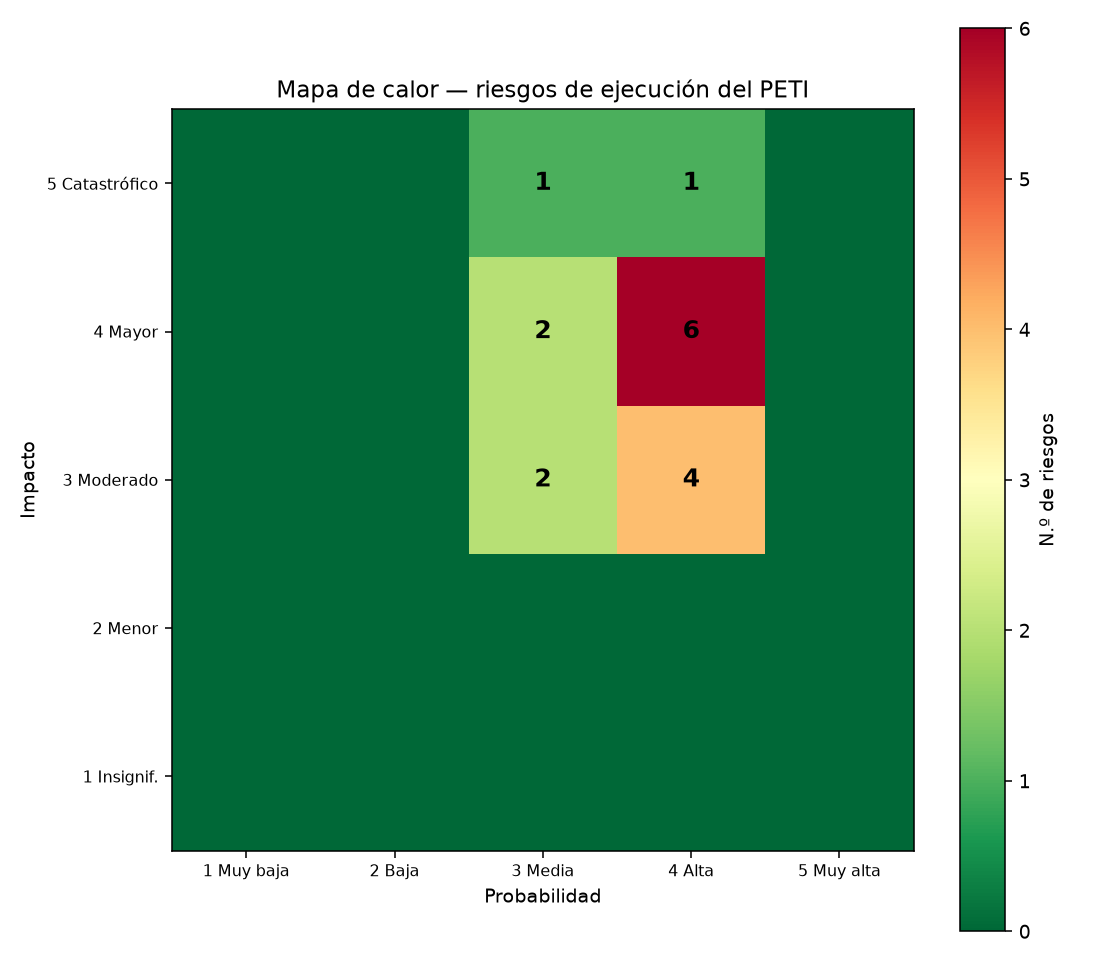
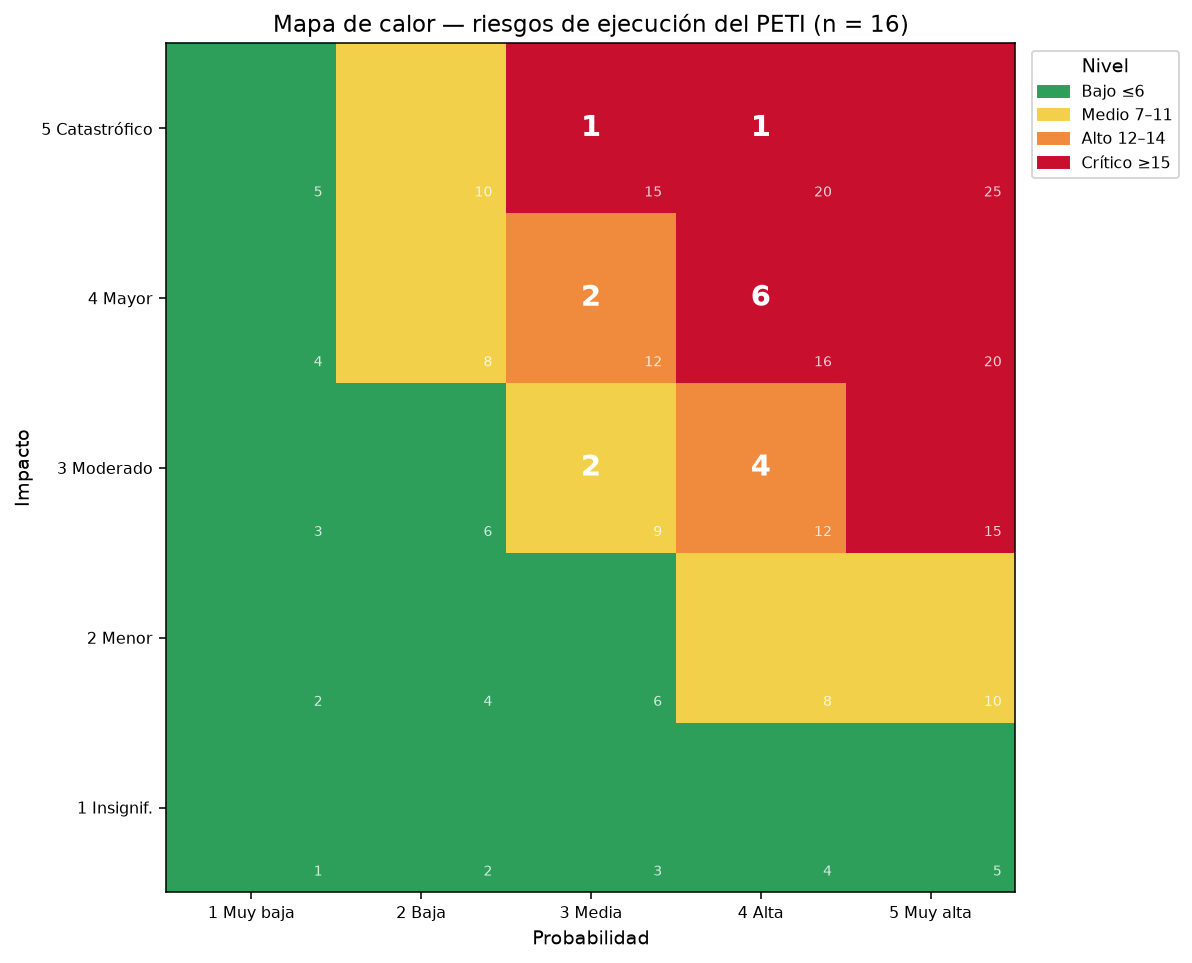
S15: mapa de calor coloreado por severidad y salidas de validacion

diff --git a/08_riesgos/RG03_evaluacion.py b/08_riesgos/RG03_evaluacion.py
@@ -24,18 +24,26 @@ criticos = r[r.valor >= 15]
 print(f"\n=== RIESGOS ≥ 15 — requieren decisión de la gerencia general ===")
 print(criticos[["id","Categoría","valor"]].to_string(index=False))
 
-# Mapa de calor
-m = np.zeros((5,5))
+# Mapa de calor (editado: el color depende de la severidad P x I, el numero es la cantidad de riesgos)
+from matplotlib.colors import ListedColormap, BoundaryNorm
+sev = np.array([[ (5-i)*(j+1) for j in range(5)] for i in range(5)])   # fila i -> impacto 5-i
+m = np.zeros((5,5), dtype=int)
 for _, x in r.iterrows(): m[5-x.I, x.P-1] += 1
+cmap = ListedColormap(["#2e9e5b","#f2d04a","#f08a3c","#c8102e"])      # Bajo, Medio, Alto, Critico
+norm = BoundaryNorm([0,6.5,11.5,14.5,26], cmap.N)
 fig, ax = plt.subplots(figsize=(8,7))
-im = ax.imshow(m, cmap="RdYlGn_r", vmin=0, vmax=max(m.max(),1))
+ax.imshow(sev, cmap=cmap, norm=norm)
 for i in range(5):
     for j in range(5):
         v = int(m[i,j])
-        if v: ax.text(j, i, v, ha="center", va="center", fontsize=13, fontweight="bold")
+        ax.text(j, i, v if v else "", ha="center", va="center", fontsize=15, fontweight="bold", color="white")
+        ax.text(j+0.42, i+0.42, int(sev[i,j]), ha="right", va="bottom", fontsize=7, color="white", alpha=.8)
 ax.set_xticks(range(5)); ax.set_xticklabels(["1 Muy baja","2 Baja","3 Media","4 Alta","5 Muy alta"], fontsize=8)
 ax.set_yticks(range(5)); ax.set_yticklabels(["5 Catastrófico","4 Mayor","3 Moderado","2 Menor","1 Insignif."], fontsize=8)
 ax.set_xlabel("Probabilidad"); ax.set_ylabel("Impacto")
-ax.set_title("Mapa de calor — riesgos de ejecución del PETI")
-plt.colorbar(im, label="N.º de riesgos"); plt.tight_layout()
-plt.savefig("../graficos/RG_mapa_calor.png", dpi=140)
+ax.set_title("Mapa de calor — riesgos de ejecución del PETI (n = %d)" % len(r))
+from matplotlib.patches import Patch
+ax.legend(handles=[Patch(color=c,label=l) for c,l in zip(cmap.colors,["Bajo ≤6","Medio 7–11","Alto 12–14","Crítico ≥15"])],
+          loc="upper left", bbox_to_anchor=(1.01,1), fontsize=8, title="Nivel")
+plt.tight_layout()
+plt.savefig("../graficos/RG_mapa_calor.png", dpi=140, bbox_inches="tight")
